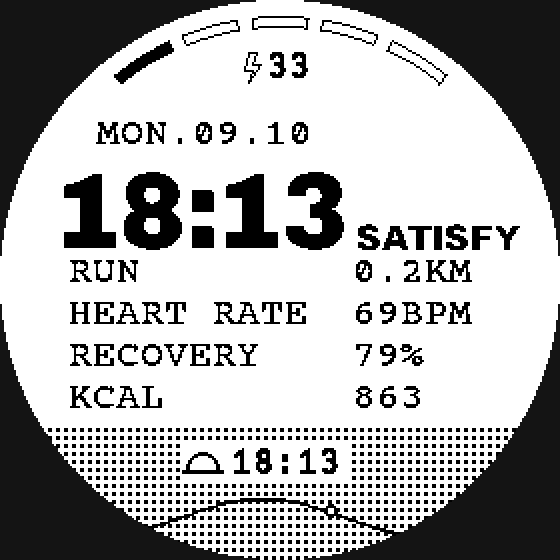
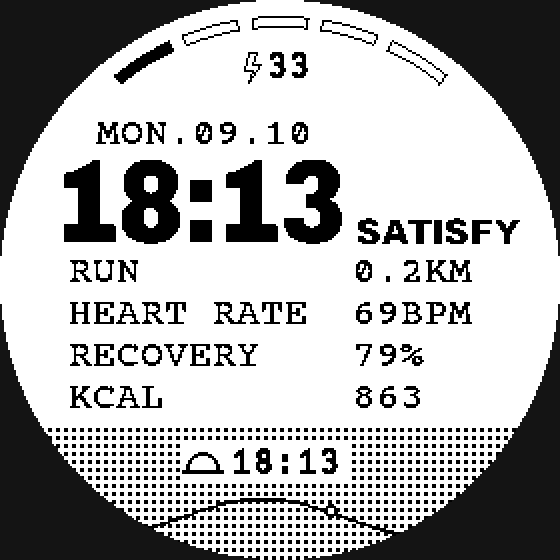
Time 10% taller: Archivo 900, 59 px, width 82; moved up under the date

Changed region(s): [[0.0911, 0.2732, 0.6071, 0.4554], [0.6071, 0.3946, 0.9411, 0.4554]]

diff --git a/gen_svg.py b/gen_svg.py
@@ -10,7 +10,7 @@ match the device. Layout constants mirror TypeFaceView.mc / preview.py.
 import math
 
 CX = CY = 140
-BATT_Y, DATE_Y, TIME_Y, SAT_Y = 22, 56, 76, 109
+BATT_Y, DATE_Y, TIME_Y, SAT_Y = 22, 56, 69, 106
 BATT_X, DATE_X = 133, 48
 LABEL_X, COL2_X, SAT_X, TIME_X = 34, 176, 178, 28
 ROW_Y = [125, 146, 167, 188]
@@ -23,7 +23,7 @@ BATT = 33
 TEXT_BASE = 5 + 11    # Courier Prime Regular 20 (rows)
 DATE_BASE = 5 + 11    # Courier Prime Regular 20
 BOLD_BASE = 4 + 13    # Courier Prime Bold 21, condensed 0.88 (battery, sun time)
-TIME_BASE = 10 + 39   # Archivo 900 wdth 90, 54
+TIME_BASE = 11 + 42   # Archivo 900 wdth 82, 59
 LABEL_BASE = 4 + 12   # Archivo 800, 18
 TEXT_SX = 1.0
 BOLD_SX = 11 / 13
@@ -96,7 +96,7 @@ L.append('  <polygon id="bolt" points="' + " ".join(f"{x},{y}" for x, y in BOLT)
 
 # date / time / label / rows
 L.append(text("date", DATE_X, DATE_Y + DATE_BASE, "MON.09.10", 20, 1.0))
-L.append(text("time", TIME_X, TIME_Y + TIME_BASE, "18:13", 54, TIME_SX, family="Archivo", weight=900, stretch="90%"))
+L.append(text("time", TIME_X, TIME_Y + TIME_BASE, "18:13", 59, TIME_SX, family="Archivo", weight=900, stretch="82%"))
 L.append(text("label", SAT_X, SAT_Y + LABEL_BASE, "SATISFY", 18, 1.0, family="Archivo", weight=800))
 for i, (k, v) in enumerate([("RUN", "0.2KM"), ("HEART RATE", "69BPM"), ("RECOVERY", "79%"), ("KCAL", "863")]):
     L.append(text(f"row {i+1} label", LABEL_X, ROW_Y[i] + TEXT_BASE, k, 20, TEXT_SX))

diff --git a/gen_fonts.py b/gen_fonts.py
@@ -91,7 +91,7 @@ def build(name, specs, out_prefix):
     return line_h
 
 # Fonts measured from typeface-7x_figma.svg:
-#   time           Archivo wght 900, wdth 90, 54 px
+#   time           Archivo wght 900, wdth 82, 59 px
 #   label          Archivo wght 800, 18 px
 #   battery, sun time  Courier Prime Bold 21 px condensed 0.88
 #   rows, date         Courier Prime Regular 20 px
@@ -103,7 +103,7 @@ def archivo(size, weight, width=100):
 DIGITS = "0123456789"
 UPPER = "ABCDEFGHIJKLMNOPQRSTUVWXYZ"
 
-build("time",  [(archivo(54, 900, 90), DIGITS + ":", 1.0, 0)], "time")
+build("time",  [(archivo(59, 900, 82), DIGITS + ":", 1.0, 0)], "time")
 build("label", [(archivo(18, 800), UPPER + " ", 1.0, 0)], "label")
 build("bold",  [(ImageFont.truetype("CourierPrime-Bold.ttf", 21), DIGITS + ":-", 0.88, 2)], "bold")
 build("text",  [(ImageFont.truetype("CourierPrime-Regular.ttf", 20), UPPER + DIGITS + ".:%-+/ ", 1.0, 2)], "text")

diff --git a/preview.py b/preview.py
@@ -55,11 +55,11 @@ BATT_Y  = 22
 BATT_X  = 133
 DATE_X  = 48
 DATE_Y  = 56
-TIME_Y  = 76
+TIME_Y  = 69
 TIME_X  = 28
 COL2_X  = 176
 SAT_X   = 178
-SAT_Y   = 109
+SAT_Y   = 106
 ROW_Y   = [125, 146, 167, 188]
 LABEL_X = 34
 BAND_Y  = 214
